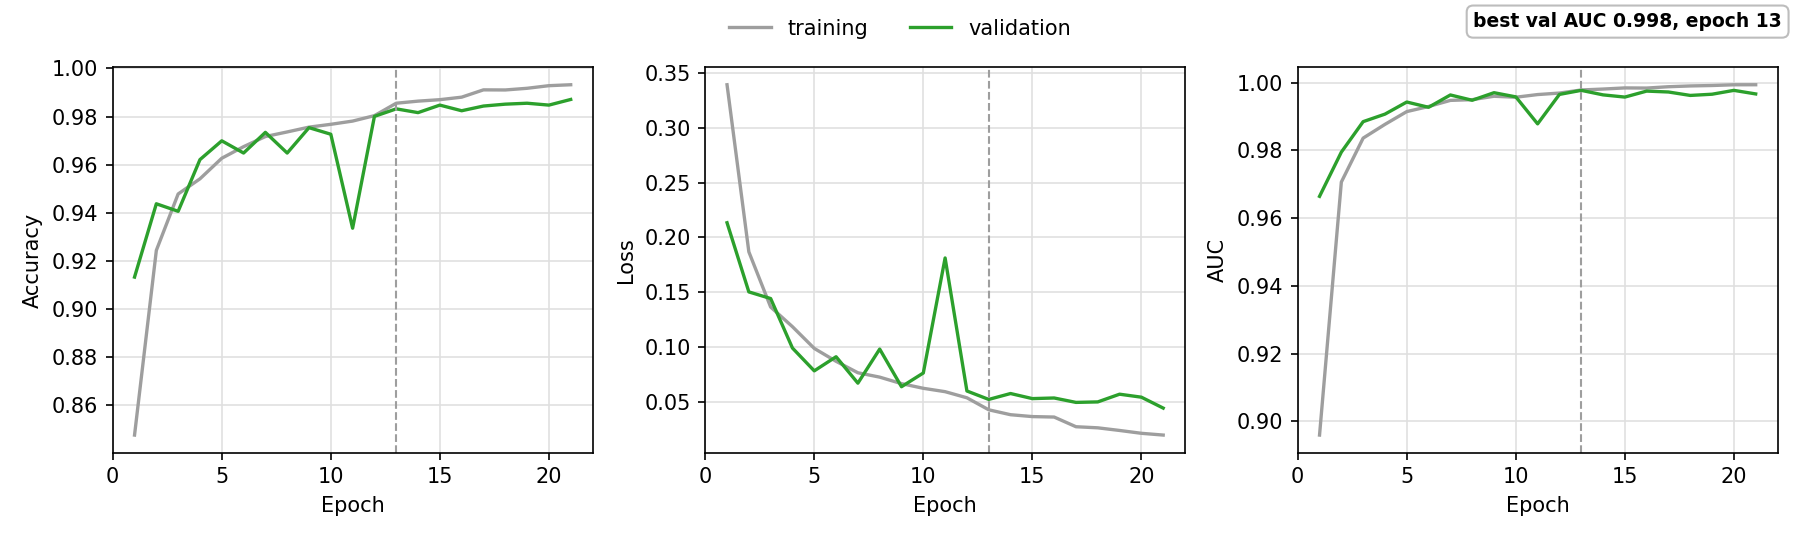
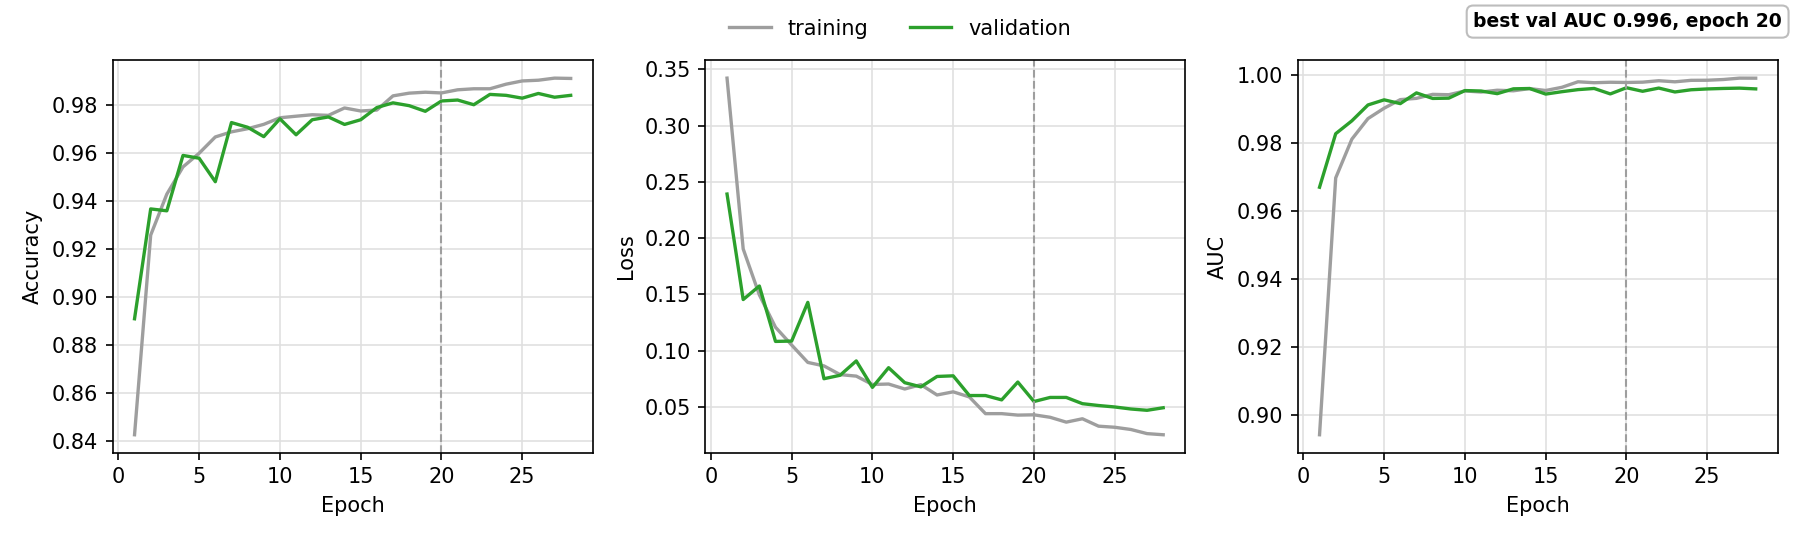
feat: add 90-degree rotation augmentation, predict --tta, and a --seed flag
- Random 90-degree rotations in the input pipeline join the in-model
  flips: all 8 chip symmetries seen during training
- Seed-42 model: 98.4 pct test accuracy at threshold 0.5 (plane
  precision 0.96, recall 0.98, AUC 0.998)
- predict.py --tta averages the 8 symmetries per chip: 98.7 pct
- Measured, not shipped: 4-seed ensemble 98.6 pct, ensemble x TTA
  98.8 pct
- --seed varies init, shuffling, and augmentation while the split
  stays fixed; four seeds landed at 98.0 / 98.4 / 98.4 / 98.6 pct,
  documented in the README as the honest error bar together with the
  binomial +-0.3 points on 6400 test chips
- README updated: numbers, stability paragraph, error breakdown,
  embedded figures

diff --git a/train.py b/train.py
@@ -32,6 +32,9 @@ def parse_args():
     parser.add_argument("--batch-size", type=int, default=32, help="Training batch size (default: 32)")
     parser.add_argument("--out-dir", default="outputs",
                         help="Folder for the saved model and figures (default: outputs)")
+    parser.add_argument("--seed", type=int, default=SEED,
+                        help="Training seed: weight init, shuffling, augmentation "
+                             "(default: 42). The train/val/test split stays fixed.")
     parser.add_argument("--no-show", action="store_true",
                         help="Only save the figures, do not open matplotlib windows")
     return parser.parse_args()
@@ -89,7 +92,7 @@ def load_dataset(data_dir):
     return images, labels
 
 
-def build_model():
+def build_model(seed):
     """Mini-VGG, ~270k parameters: two double-conv blocks and a Flatten head."""
     from tensorflow.keras.layers import (Conv2D, Dense, Dropout, Flatten, Input,
                                          MaxPooling2D, RandomFlip)
@@ -99,8 +102,9 @@ def build_model():
     model = Sequential([
         Input(shape=(IMG_SIZE, IMG_SIZE, 3)),
         # Satellite chips have no preferred orientation: free augmentation
-        # (active during training only).
-        RandomFlip("horizontal_and_vertical", seed=SEED),
+        # (active during training only). The 90-degree rotations live in the
+        # input pipeline; together they cover all 8 chip symmetries.
+        RandomFlip("horizontal_and_vertical", seed=seed),
         Conv2D(32, (3, 3), padding="same", activation="relu"),
         Conv2D(32, (3, 3), padding="same", activation="relu"),
         MaxPooling2D((2, 2)),
@@ -123,9 +127,10 @@ def build_model():
 
 def main():
     args = parse_args()
-    set_seeds(SEED)
+    set_seeds(args.seed)
 
     import matplotlib.pyplot as plt
+    import tensorflow as tf
     from sklearn.metrics import classification_report, confusion_matrix
     from sklearn.model_selection import train_test_split
     from tensorflow.keras.callbacks import EarlyStopping, ReduceLROnPlateau
@@ -145,14 +150,26 @@ def main():
     )
     print("Split: %d train / %d val / %d test" % (len(y_train), len(y_val), len(y_test)))
 
-    model = build_model()
+    model = build_model(args.seed)
     model.summary()
 
+    # Random 90-degree rotation per chip per epoch; the in-model RandomFlip
+    # supplies the mirrored half of the 8 symmetries.
+    def rotate90(x, y):
+        return tf.image.rot90(x, tf.random.uniform([], 0, 4, dtype=tf.int32)), y
+
+    train_ds = (
+        tf.data.Dataset.from_tensor_slices((X_train, y_train))
+        .shuffle(len(y_train), seed=args.seed, reshuffle_each_iteration=True)
+        .map(rotate90, num_parallel_calls=tf.data.AUTOTUNE)
+        .batch(args.batch_size)
+        .prefetch(tf.data.AUTOTUNE)
+    )
+
     history = model.fit(
-        X_train, y_train,
+        train_ds,
         validation_data=(X_val, y_val),
         epochs=args.epochs,
-        batch_size=args.batch_size,
         # val_loss is noisy under augmentation and stops far too early;
         # val_auc climbs smoothly and is threshold-independent.
         callbacks=[
@@ -199,6 +216,7 @@ def main():
     metrics_path = os.path.join(args.out_dir, "metrics.json")
     with open(metrics_path, "w") as f:
         json.dump({
+            "training_seed": args.seed,
             "majority_baseline_accuracy": float(baseline),
             "tuned_threshold": tuned,
             "test_at_0.5": {k: float(v) for k, v in test_metrics.items()},

diff --git a/predict.py b/predict.py
@@ -35,6 +35,9 @@ def main():
     parser.add_argument("--threshold", type=float, default=None,
                         help="Decision threshold; defaults to the tuned value stored in "
                              "metrics.json next to the model, or 0.5")
+    parser.add_argument("--tta", action="store_true",
+                        help="Average the prediction over the 8 rotations/flips of "
+                             "each chip (slower, slightly more accurate)")
     args = parser.parse_args()
 
     if not os.path.isfile(args.model):
@@ -63,7 +66,15 @@ def main():
         img_to_array(load_img(p, target_size=(IMG_SIZE, IMG_SIZE))) / 255.0
         for p in paths
     ]).astype(np.float32)
-    probs = model.predict(batch, verbose=0).ravel()
+    if args.tta:
+        probs = np.zeros(len(batch), dtype=np.float64)
+        for k in range(4):
+            rot = np.rot90(batch, k, axes=(1, 2))
+            probs += model.predict(rot, verbose=0).ravel()
+            probs += model.predict(rot[:, :, ::-1, :], verbose=0).ravel()
+        probs /= 8.0
+    else:
+        probs = model.predict(batch, verbose=0).ravel()
 
     for path, prob in zip(paths, probs):
         label = "plane" if prob >= threshold else "no plane"

diff --git a/README.md b/README.md
@@ -32,9 +32,9 @@ python train.py
 ```
 
 The script loads the 32,000 chips and splits them 72/8/20 into train,
-validation, and test sets, stratified and seeded. Random flips augment the
-chips. A plane viewed from overhead has no preferred orientation, and the
-flips cost nothing. The learning rate halves after 3 epochs without a new
+validation, and test sets, stratified and seeded. Random flips and 90-degree
+rotations augment the chips, all 8 symmetries. A plane viewed from overhead
+has no preferred orientation, and the extra views cost nothing. The learning rate halves after 3 epochs without a new
 best validation AUC; training stops after 8 and the weights roll back to the
 best epoch. I first stopped on validation loss instead, and it jumped around
 so much under the augmentation that one run ended at epoch 5, badly underfit.
@@ -63,17 +63,28 @@ and beats both.
 One number means little on an imbalanced dataset. Always answering "no plane"
 already scores 75%.
 
-On the 6,400 held-out test chips the network reaches 98.2% accuracy, with a
-precision of 0.97 and a recall of 0.96 on the plane class (AUC 0.998). The
-stored threshold, 0.72 on this run, gives the same test accuracy as plain
-0.5; when validation cannot separate two thresholds, the script keeps the
-lower one for its recall. The threshold stays useful as a trade knob. Lower
-it with `predict.py --threshold` when a missed plane costs more than a false
-alarm.
+On the 6,400 held-out test chips the network reaches 98.4% accuracy at the
+plain 0.5 threshold, with a precision of 0.96 and a recall of 0.98 on the
+plane class (AUC 0.998). The stored validation-tuned threshold, 0.765 on this
+run, sits a tenth of a point lower in accuracy and swaps some recall for
+precision. The threshold is the trade knob. Lower it with
+`predict.py --threshold` when a missed plane costs more than a false alarm.
+
+Treat 98.4 as a range, not a constant. Four runs of this script differing
+only by `--seed` landed at 98.0%, 98.4%, 98.4%, and 98.6%, and a 6,400-chip
+test set carries a binomial 95% interval of ±0.3 points on top of that. A
+difference under half a point between two runs is noise.
+
+`predict.py --tta` averages each chip's 8 symmetries and bought a third of a
+point in my runs (98.7% for this model). Stacking further, the four seed
+models averaged together plus TTA, topped out at 98.8%. Many of the errors
+that remain are half-visible planes sitting on the dataset's own class
+boundary: a chip only counts as "plane" when most of the aircraft is in
+frame.
 
 Training runs in a few minutes on a laptop CPU. The learning rate dropped
-twice on the way; early stopping ended the run at epoch 21 and kept the
-weights from epoch 13, where validation AUC peaked at 0.998.
+three times on the way; early stopping ended the run at epoch 28 and kept the
+weights from epoch 20, where validation AUC peaked at 0.996.
 
 ![Accuracy, loss, and AUC per epoch, training vs validation](docs/img/training_curves.png)
 
@@ -84,9 +95,9 @@ Everything a run produces lands in `outputs/`: the trained model
 (`plane_cnn.keras`), the test metrics and per-class report in `metrics.json`,
 the per-epoch numbers in `history.json`, the training curves, a confusion
 matrix, and grids of sample, correct, and misclassified chips. The
-misclassified grid is worth a look. The 114 test errors split almost evenly:
-61 missed planes, half-cut or blended into the tarmac, against 53 false
-alarms on plane-shaped white blobs.
+misclassified grid is worth a look. The 107 test errors at the stored
+threshold split into 66 missed planes, half-cut or blended into the tarmac,
+and 41 false alarms on plane-shaped white blobs.
 
 ![Misclassified test chips, true and predicted label above each](docs/img/misclassified.png)
 
